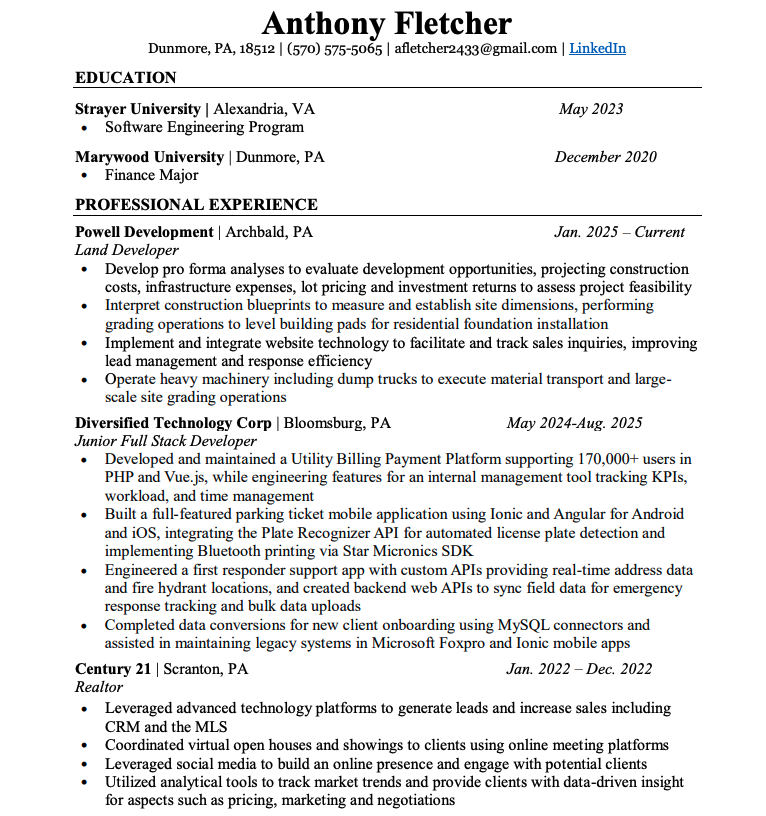
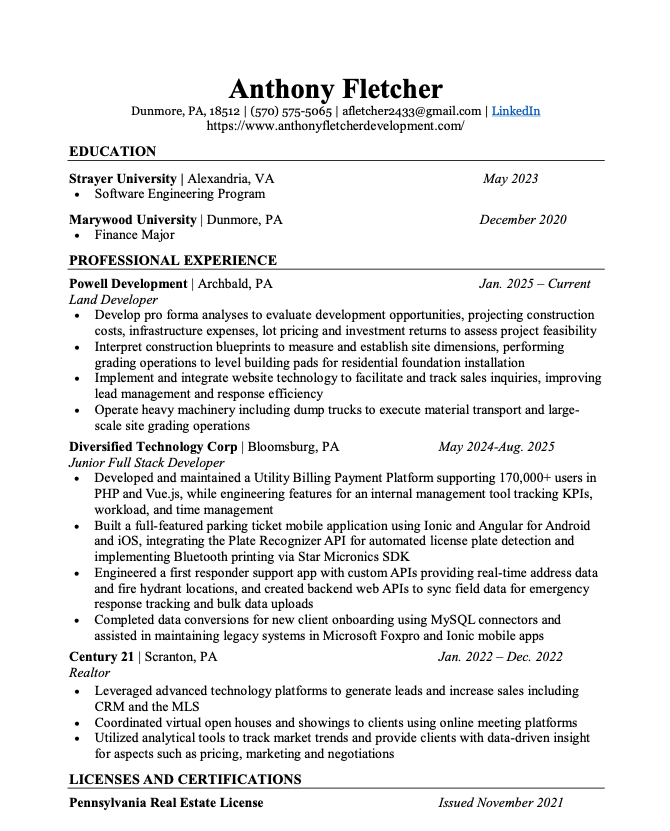
Fix resume view to fetch dynamically from backend API instead of hardcoded static file

Changed region(s): [[0.0896, 0.0, 0.9254, 1.0]]

diff --git a/frontend/src/views/ResumeView.vue b/frontend/src/views/ResumeView.vue
@@ -1,13 +1,41 @@
 <script setup lang="ts">
-import { ref, onMounted, onUnmounted } from 'vue'
+import { ref, onMounted, onUnmounted, computed } from 'vue'
+import api from '@/services/api'
 
-// Hardcoded resume - file is in frontend/public/ folder
-const RESUME_PDF_URL = '/Anthony%20Fletcher%20RE%20Dev%20Resume.pdf'
-const RESUME_NAME = 'Anthony Fletcher RE Dev Resume.pdf'
-
-const loading = ref(false)
+// Resume data from backend
+const resume = ref<{ pdf_path: string; pdf_original_name: string; pdf_size: number } | null>(null)
+const loading = ref(true)
 const error = ref('')
 const showFullscreen = ref(false)
+
+// Compute the PDF URL from backend storage
+const storageBaseUrl = import.meta.env.VITE_STORAGE_BASE_URL || 'http://localhost:8000/storage'
+const resumePdfUrl = computed(() => {
+  if (resume.value?.pdf_path) {
+    return `${storageBaseUrl}/${resume.value.pdf_path}`
+  }
+  return ''
+})
+const resumeName = computed(() => resume.value?.pdf_original_name || 'Resume.pdf')
+
+// Fetch resume from backend API
+async function fetchResume() {
+  loading.value = true
+  error.value = ''
+  try {
+    const response = await api.get('/resume')
+    resume.value = response.data
+  } catch (err: any) {
+    if (err.response?.status === 404) {
+      error.value = 'No resume has been uploaded yet.'
+    } else {
+      error.value = 'Failed to load resume. Please try again later.'
+    }
+    console.error('Error fetching resume:', err)
+  } finally {
+    loading.value = false
+  }
+}
 
 function openFullscreen() {
   showFullscreen.value = true
@@ -29,6 +57,10 @@ function handleEscKey(event: KeyboardEvent) {
   }
 }
 
+onMounted(() => {
+  fetchResume()
+})
+
 onUnmounted(() => {
   // Cleanup: ensure body scroll is restored and event listener is removed
   document.body.style.overflow = ''
@@ -49,12 +81,24 @@ onUnmounted(() => {
     <!-- Resume Content -->
     <section class="resume-section">
       <div class="container">
-        <div class="resume-card-wrapper">
+        <!-- Loading State -->
+        <div v-if="loading" class="loading">
+          <div class="spinner"></div>
+          <p>Loading resume...</p>
+        </div>
+
+        <!-- Error State -->
+        <div v-else-if="error" class="error">
+          <p>{{ error }}</p>
+        </div>
+
+        <!-- Resume Card -->
+        <div v-else-if="resume" class="resume-card-wrapper">
           <!-- Desktop: Show PDF preview card -->
           <div class="resume-card desktop-only" @click="openFullscreen">
             <div class="pdf-preview">
               <iframe
-                :src="RESUME_PDF_URL + '#toolbar=0&navpanes=0&scrollbar=0'"
+                :src="resumePdfUrl + '#toolbar=0&navpanes=0&scrollbar=0'"
                 class="pdf-iframe"
                 title="Resume Preview"
                 scrolling="no"
@@ -76,7 +120,7 @@ onUnmounted(() => {
               </div>
             </div>
             <div class="resume-content">
-              <h3 class="resume-title">{{ RESUME_NAME }}</h3>
+              <h3 class="resume-title">{{ resumeName }}</h3>
               <p class="resume-description">Click to view the full resume with download options</p>
               <div class="resume-footer">
                 <div class="resume-meta">
@@ -89,18 +133,18 @@ onUnmounted(() => {
 
           <!-- Mobile: Show image preview with buttons -->
           <div class="resume-card-mobile mobile-only">
-            <a :href="RESUME_PDF_URL" target="_blank" class="mobile-preview">
+            <a :href="resumePdfUrl" target="_blank" class="mobile-preview">
               <img src="/resume-preview.png" alt="Resume Preview - Click to view" class="mobile-preview-image" />
             </a>
             <div class="mobile-buttons">
-              <a :href="RESUME_PDF_URL" target="_blank" class="mobile-btn mobile-btn-primary">
+              <a :href="resumePdfUrl" target="_blank" class="mobile-btn mobile-btn-primary">
                 <svg width="20" height="20" viewBox="0 0 24 24" fill="none" stroke="currentColor" stroke-width="2">
                   <path d="M1 12s4-8 11-8 11 8 11 8-4 8-11 8-11-8-11-8z"/>
                   <circle cx="12" cy="12" r="3"/>
                 </svg>
                 View Resume
               </a>
-              <a :href="RESUME_PDF_URL" download class="mobile-btn mobile-btn-secondary">
+              <a :href="resumePdfUrl" download class="mobile-btn mobile-btn-secondary">
                 <svg width="20" height="20" viewBox="0 0 24 24" fill="none" stroke="currentColor" stroke-width="2">
                   <path d="M21 15v4a2 2 0 0 1-2 2H5a2 2 0 0 1-2-2v-4"/>
                   <polyline points="7 10 12 15 17 10"/>
@@ -119,11 +163,11 @@ onUnmounted(() => {
       <div class="modal-viewer">
         <div class="viewer-toolbar">
           <div class="toolbar-left">
-            <span class="doc-name">{{ RESUME_NAME }}</span>
+            <span class="doc-name">{{ resumeName }}</span>
           </div>
           <div class="toolbar-right">
             <a
-              :href="RESUME_PDF_URL"
+              :href="resumePdfUrl"
               download
               class="btn-download"
               @click.stop
@@ -136,7 +180,7 @@ onUnmounted(() => {
               DOWNLOAD
             </a>
             <a
-              :href="RESUME_PDF_URL"
+              :href="resumePdfUrl"
               target="_blank"
               class="btn-newtab"
               @click.stop
@@ -160,7 +204,7 @@ onUnmounted(() => {
 
         <div class="document-container">
           <iframe
-            :src="RESUME_PDF_URL"
+            :src="resumePdfUrl"
             class="document-iframe"
             title="Resume Document"
           ></iframe>

diff --git a/frontend/src/App.vue b/frontend/src/App.vue
@@ -40,7 +40,7 @@ function handleLogout() {
     <footer class="footer">
       <div class="container">
         <div class="footer-content">
-          <p class="footer-text">&copy; 2025 AF Technologies. All rights reserved.</p>
+          <p class="footer-text">&copy; 2026 AF Technologies. All rights reserved.</p>
         </div>
       </div>
     </footer>
